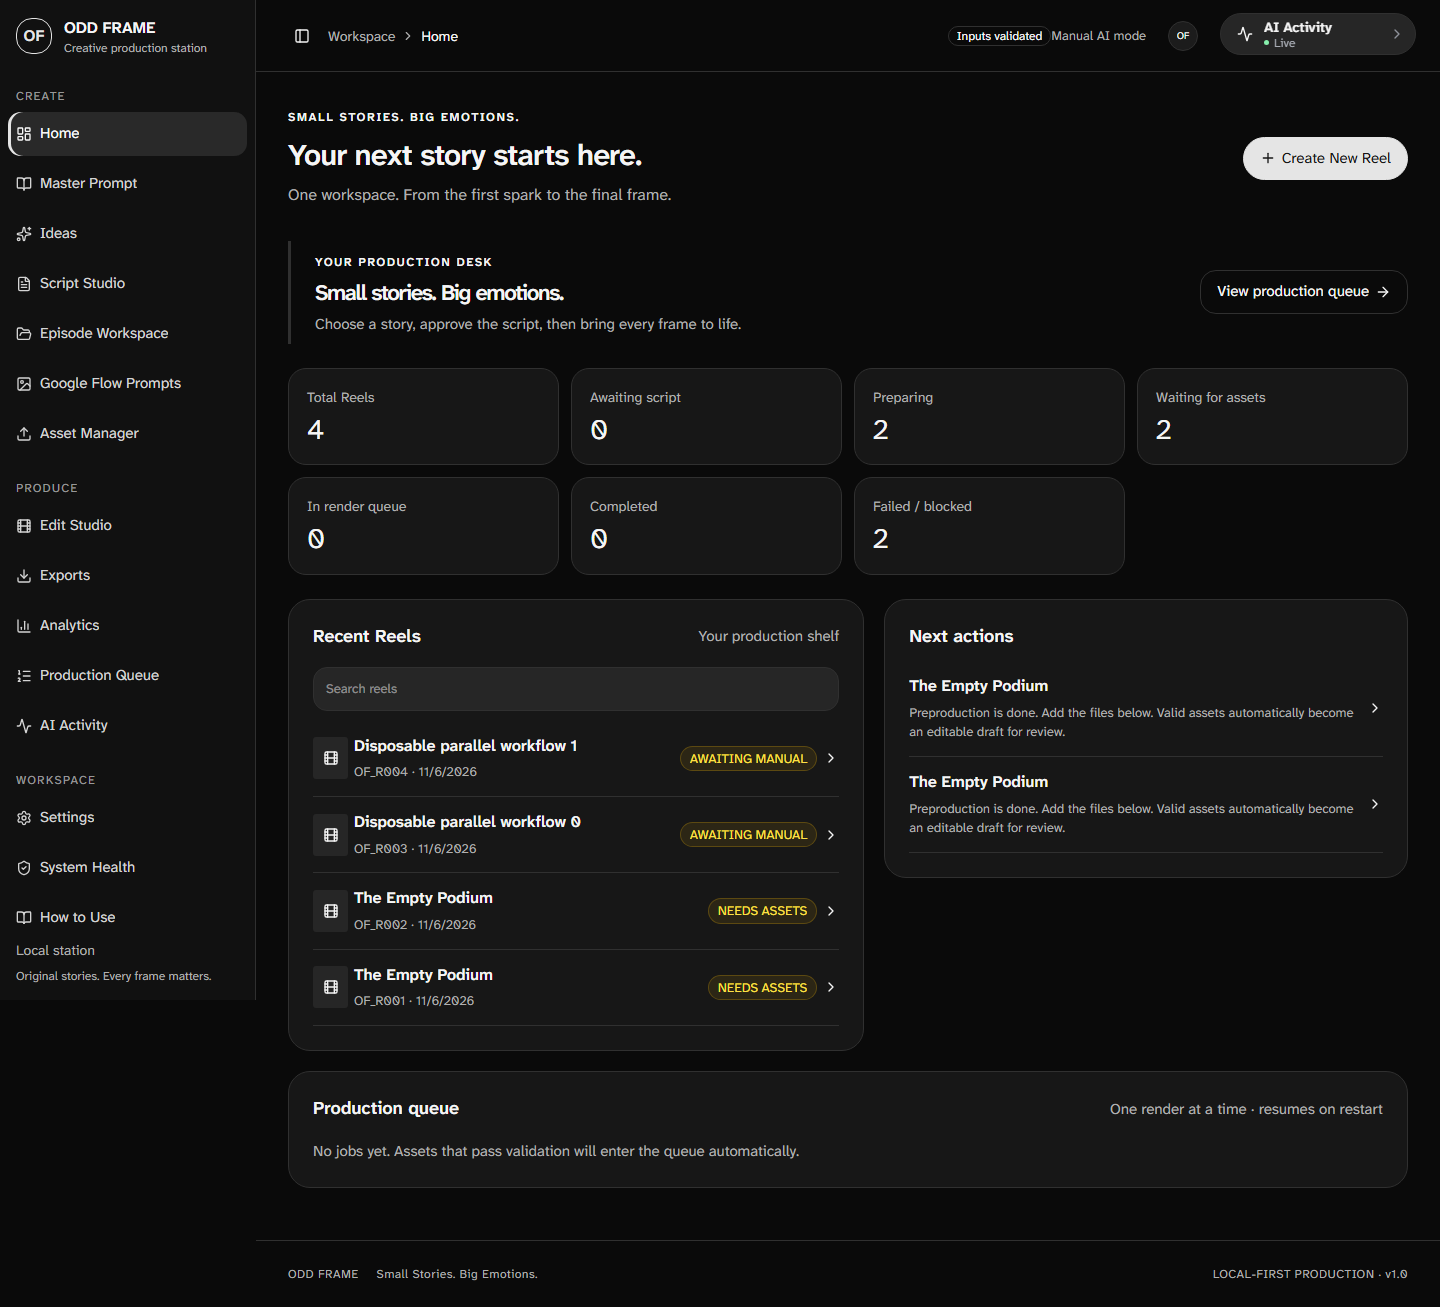
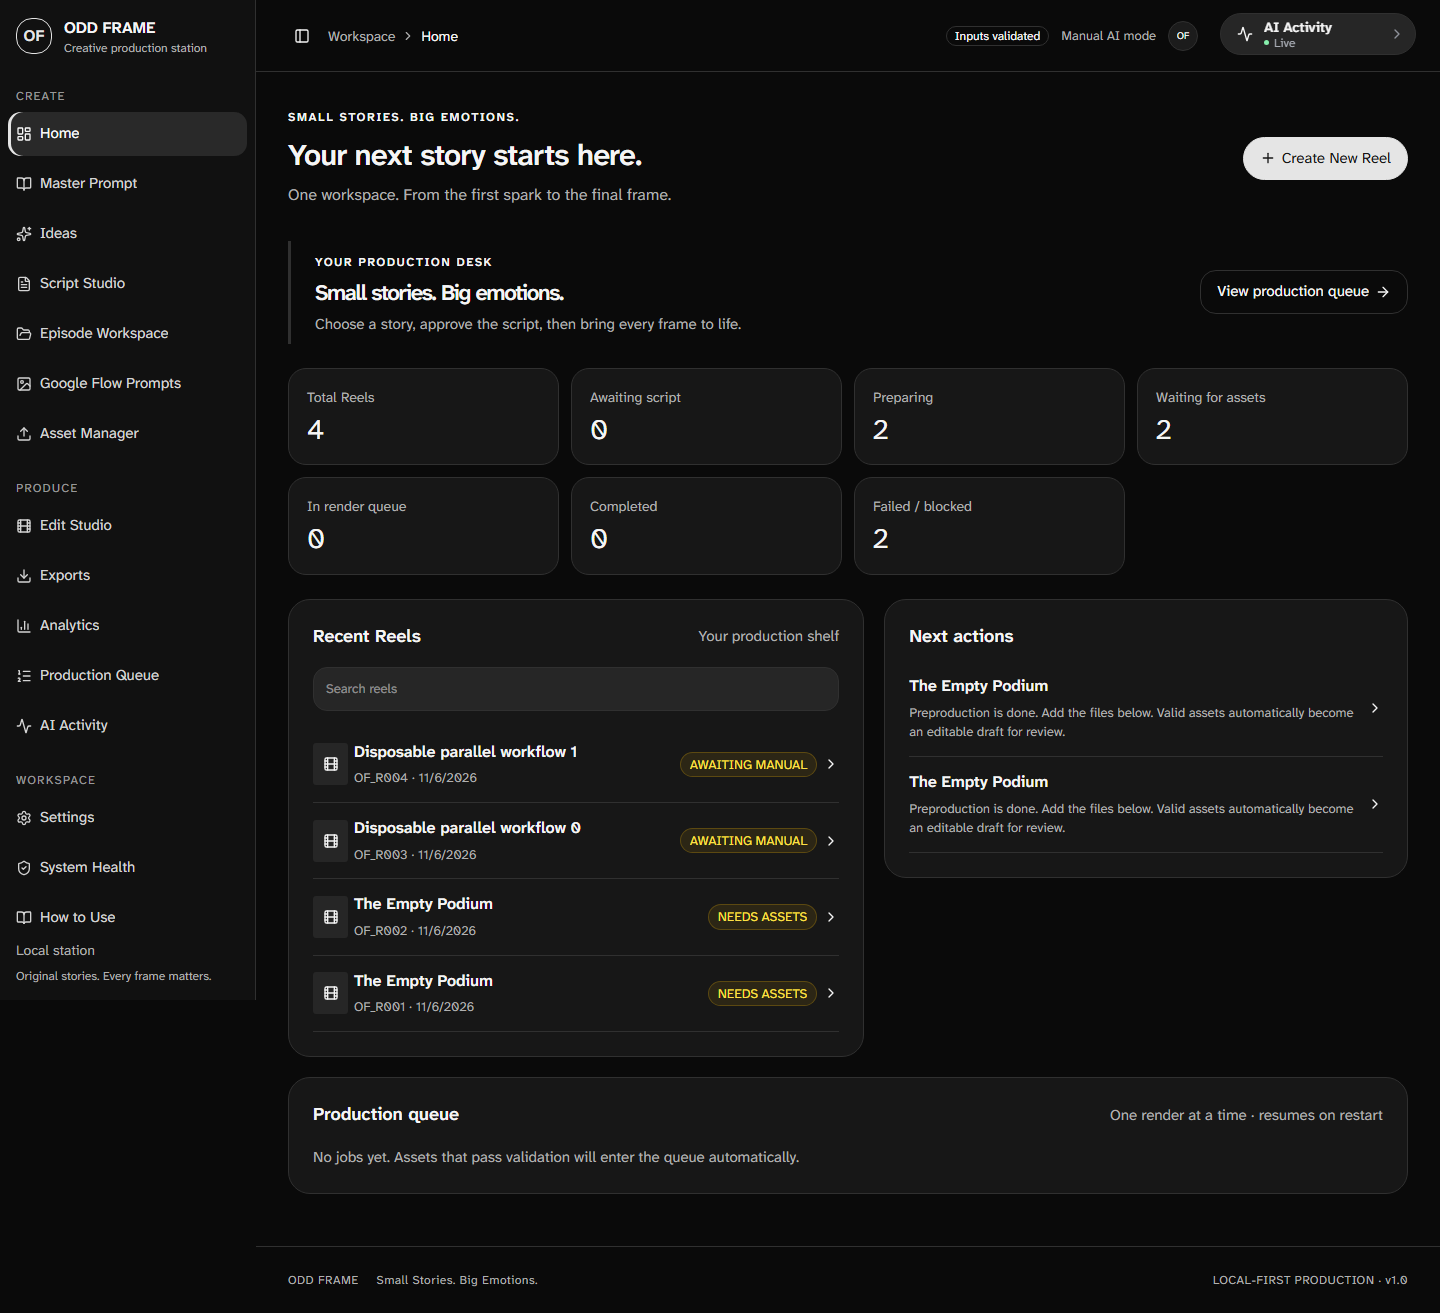
fix(ui): correct hover contrast and dashboard spacing

diff --git a/apps/dashboard/src/main.tsx b/apps/dashboard/src/main.tsx
@@ -849,11 +849,13 @@ function App() {
             <StatusBadge variant="outline">
               {status?.skills.valid ? "Inputs validated" : "Check health"}
             </StatusBadge>
-            {status?.settings?.provider === "manual"
-              ? "Manual AI mode"
-              : status?.settings.provider
-                ? "Provider: " + status.settings.provider
-                : "Connecting"}
+            <span className="header-provider">
+              {status?.settings?.provider === "manual"
+                ? "Manual AI mode"
+                : status?.settings.provider
+                  ? "Provider: " + status.settings.provider
+                  : "Connecting"}
+            </span>
             <span className="avatar">OF</span>
           </div>
         </header>
@@ -899,21 +901,6 @@ function App() {
               </Button>
             </div>
           )}
-          {page === "Production Queue" && (
-            <QueuePage
-              status={status}
-              runs={runs}
-              onEpisode={(id) => selectEpisode(id, "Episode Workspace")}
-            />
-          )}
-          {page === "System Health" && (
-            <HealthPage
-              status={status}
-              onSettings={() => setPage("Settings")}
-            />
-          )}
-          {page === "How to Use" && <HelpPage onNavigate={setPage} />}
-          {page === "AI Activity" && <ActivityPage />}
           {busy && (
             <div className="loading" role="status">
               <RefreshCw className="spin" size={16} />
@@ -927,9 +914,9 @@ function App() {
                 <strong>
                   This browser window is not authorized to make changes.
                 </strong>{" "}
-                Open the dashboard with <code>scriptsstart.ps1</code>, or paste
-                the access key from <code>datantroller-access.json</code> (the
-                "token" value) here. It is kept in this browser only.
+                Open the dashboard with <code>scripts/start.ps1</code>, or paste
+                the access key from <code>data/controller-access.json</code>{" "}
+                (the "token" value) here. It is kept in this browser only.
                 <div className="row">
                   <Input
                     type="password"
@@ -962,6 +949,21 @@ function App() {
               {error}
             </div>
           )}
+          {page === "Production Queue" && (
+            <QueuePage
+              status={status}
+              runs={runs}
+              onEpisode={(id) => selectEpisode(id, "Episode Workspace")}
+            />
+          )}
+          {page === "System Health" && (
+            <HealthPage
+              status={status}
+              onSettings={() => setPage("Settings")}
+            />
+          )}
+          {page === "How to Use" && <HelpPage onNavigate={setPage} />}
+          {page === "AI Activity" && <ActivityPage />}
           {page === "Home" && (
             <>
               <section className="home-intro">
@@ -1054,6 +1056,7 @@ function App() {
                       {(rows) =>
                         rows.map((e) => (
                           <Button
+                            variant="ghost"
                             className="episode-row"
                             key={e.id}
                             onClick={() => selectEp(e)}
@@ -1093,6 +1096,7 @@ function App() {
                     .slice(0, 4)
                     .map((e) => (
                       <Button
+                        variant="ghost"
                         className="episode-row"
                         key={e.id}
                         onClick={() => selectEp(e)}
@@ -1320,6 +1324,7 @@ function App() {
                   {(rows) =>
                     rows.map((e) => (
                       <Button
+                        variant="ghost"
                         className="episode-row"
                         key={e.id}
                         onClick={() => selectEp(e, page)}

diff --git a/apps/dashboard/src/redesign.css b/apps/dashboard/src/redesign.css
@@ -597,6 +597,123 @@
 }
 
 /* Neutral application theme. Color is reserved for meaningful status. */
+.workspace-content > #page-content {
+  margin: 0 auto;
+  flex: 1;
+}
+.workspace-content > .topbar .top-status {
+  gap: 12px;
+  white-space: nowrap;
+}
+.workspace-content > .topbar .top-status .avatar {
+  margin-left: 0;
+  flex-shrink: 0;
+}
+.app-sidebar-header {
+  flex-shrink: 0;
+  min-height: 72px;
+  position: relative;
+  z-index: 1;
+  background: var(--sidebar);
+}
+.sidebar-brand {
+  min-width: 0;
+  width: 100%;
+  min-height: 36px;
+}
+.sidebar-brand-mark {
+  flex: 0 0 36px;
+  width: 36px;
+  height: 36px;
+}
+.sidebar-brand-copy {
+  min-width: 0;
+  overflow: hidden;
+}
+.sidebar-brand-copy small {
+  overflow: hidden;
+  text-overflow: ellipsis;
+  white-space: nowrap;
+}
+[data-collapsible="icon"] .app-sidebar-header {
+  padding: 18px 6px;
+}
+[data-collapsible="icon"] .sidebar-brand {
+  justify-content: center;
+  gap: 0;
+}
+[data-collapsible="icon"] .sidebar-brand-copy {
+  display: none;
+}
+[data-slot="sidebar-footer"] {
+  flex-shrink: 0;
+}
+.workspace-content .episode-row:hover,
+.workspace-content .episode-row:focus-visible {
+  background: var(--accent);
+  color: var(--foreground);
+}
+.workspace-content .episode-row:hover small {
+  color: var(--muted-foreground);
+}
+.workspace-content :is(button, a)[data-variant="secondary"]:hover,
+.workspace-content [data-slot="button"].secondary:hover,
+.workspace-content [data-slot="button"].text-button:hover {
+  background: var(--accent);
+  color: var(--foreground);
+}
+.workspace-content #page-content > .error,
+.workspace-content #page-content > .notice,
+.workspace-content #page-content > .loading {
+  margin: 20px 0;
+  padding: 16px;
+  gap: 12px;
+}
+.workspace-content #page-content > .error > svg {
+  flex-shrink: 0;
+  margin-top: 2px;
+}
+.workspace-content #page-content > .error > div {
+  min-width: 0;
+  flex: 1;
+}
+.workspace-content .paged-tools {
+  margin: 16px 0;
+  gap: 12px;
+}
+.workspace-content h3 + .paged {
+  margin-top: 16px;
+}
+.workspace-content .history {
+  margin: 0;
+  padding: 12px 0;
+  border-bottom: 1px solid var(--border);
+  gap: 12px;
+}
+.workspace-content .history:last-child {
+  border-bottom: 0;
+}
+.workspace-content .genre-history-label,
+.workspace-content .genre-batches {
+  display: grid;
+  gap: 8px;
+  margin: 20px 0;
+}
+.workspace-content .genre-history-label select,
+.workspace-content .genre-batches select {
+  margin: 0;
+  width: 100%;
+  min-height: 44px;
+}
+.workspace-content .pager-size {
+  display: flex;
+  align-items: center;
+  gap: 8px;
+  margin: 0;
+}
+.workspace-content .pager-size select {
+  margin: 0;
+}
 .workspace-content .genre-studio .category-card {
   border-radius: 18px;
   padding: 22px;

diff --git a/apps/dashboard/src/app-sidebar.tsx b/apps/dashboard/src/app-sidebar.tsx
@@ -37,19 +37,19 @@ export function AppSidebar({
   ] as const;
   return (
     <Sidebar collapsible="icon">
-      <SidebarHeader className="p-4">
+      <SidebarHeader className="app-sidebar-header p-4">
         <a
-          className="flex items-center gap-3 overflow-hidden text-foreground"
+          className="sidebar-brand flex items-center gap-3 overflow-hidden text-foreground"
           href="/"
           onClick={(e) => {
             e.preventDefault();
             onNavigate("Home");
           }}
         >
-          <span className="grid size-9 shrink-0 place-items-center rounded-lg border border-primary text-base font-bold text-primary">
+          <span className="sidebar-brand-mark grid size-9 shrink-0 place-items-center rounded-lg border border-primary text-base font-bold text-primary">
             OF
           </span>
-          <span className="whitespace-nowrap font-semibold group-data-[collapsible=icon]:hidden">
+          <span className="sidebar-brand-copy whitespace-nowrap font-semibold group-data-[collapsible=icon]:hidden">
             ODD FRAME
             <small className="block text-xs font-normal text-muted-foreground">
               Creative production station

diff --git a/reports/SHADCN_REDESIGN_CHANGELOG.md b/reports/SHADCN_REDESIGN_CHANGELOG.md
@@ -54,3 +54,8 @@ To restart after stopping the existing preview processes, run `npm run ui:previe
 ## Ideas card correction
 
 Category cards now use the official outline Button variant with explicit 18px card corners, contained 20?22px padding and a bottom-aligned genre count. They no longer inherit primary-action pill corners. At narrow mobile widths the category grid becomes a single readable column. Eight category groups, genre selection and generation behavior are unchanged. Targeted browser checks verify all child content stays inside every card at 1920, 1440, 768 and 390px, plus selected states and no horizontal overflow.
+
+
+## Hover and spacing corrections
+
+Reel rows and next actions use the ghost Button variant with a neutral, readable hover/focus surface rather than the primary white action hover. Secondary and text controls also use neutral hovers. The brand header cannot shrink under sidebar scrolling; the icon and label have separate bounds and the collapsed icon fits its 48px rail. Header status/provider/avatar items have an explicit 12px gap. Global alerts appear before page content with top/bottom spacing; authorization helper paths are readable. Short pages stay top-aligned. Production-history search tools and saved-session/generation-batch fields have consistent heading, label and input gaps.

diff --git a/reports/UI_REGRESSION_TESTS.md b/reports/UI_REGRESSION_TESTS.md
@@ -67,3 +67,6 @@ Ideas layout follow-up: `node scripts/ideas-layout-qa.mjs` passed at 1920/1440/7
 - Existing API/path-safety and export regressions: 5 PASS after the read-only metadata extension.
 - Dashboard build/TypeScript and 12 frontend unit tests PASS. No live providers or production mutations were used.
 - Source preservation verification still compares all original main hashes/status; the reviewed read-only catalog/detail metadata is now the only permitted backend exception. No worker, creative, database-schema or renderer changes.
+
+
+Hover/spacing follow-up: `node scripts/layout-polish-qa.mjs` PASS. Every rendered Home Reel/next-action row was hovered and checked for neutral background/readable foreground. Expanded/collapsed/mobile logo bounds pass, header gap is at least 12px, batch label/control gaps at least 8px, production-history search spacing at least 12px, authorization alert top/bottom separation at least 16px. Short-page alignment and mobile overflow pass. Axe on the unauthenticated alert page and all checked routes reports zero violations. Dashboard build, 12 unit tests and the general desktop/mobile route regression pass. No backend or production-state changes.
